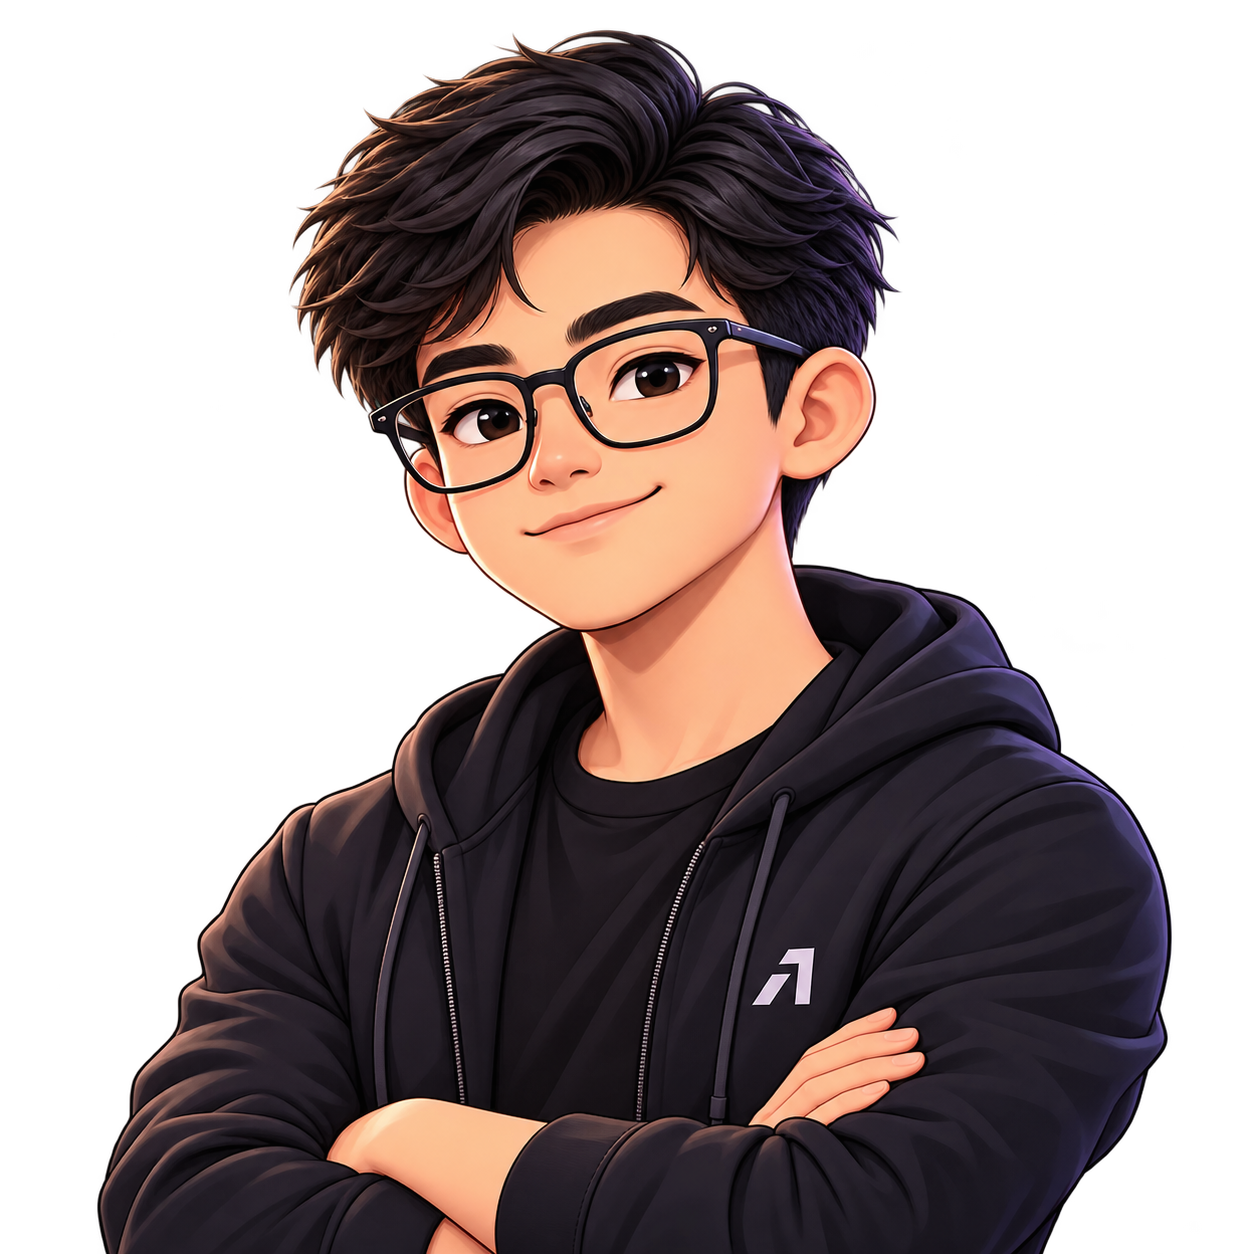
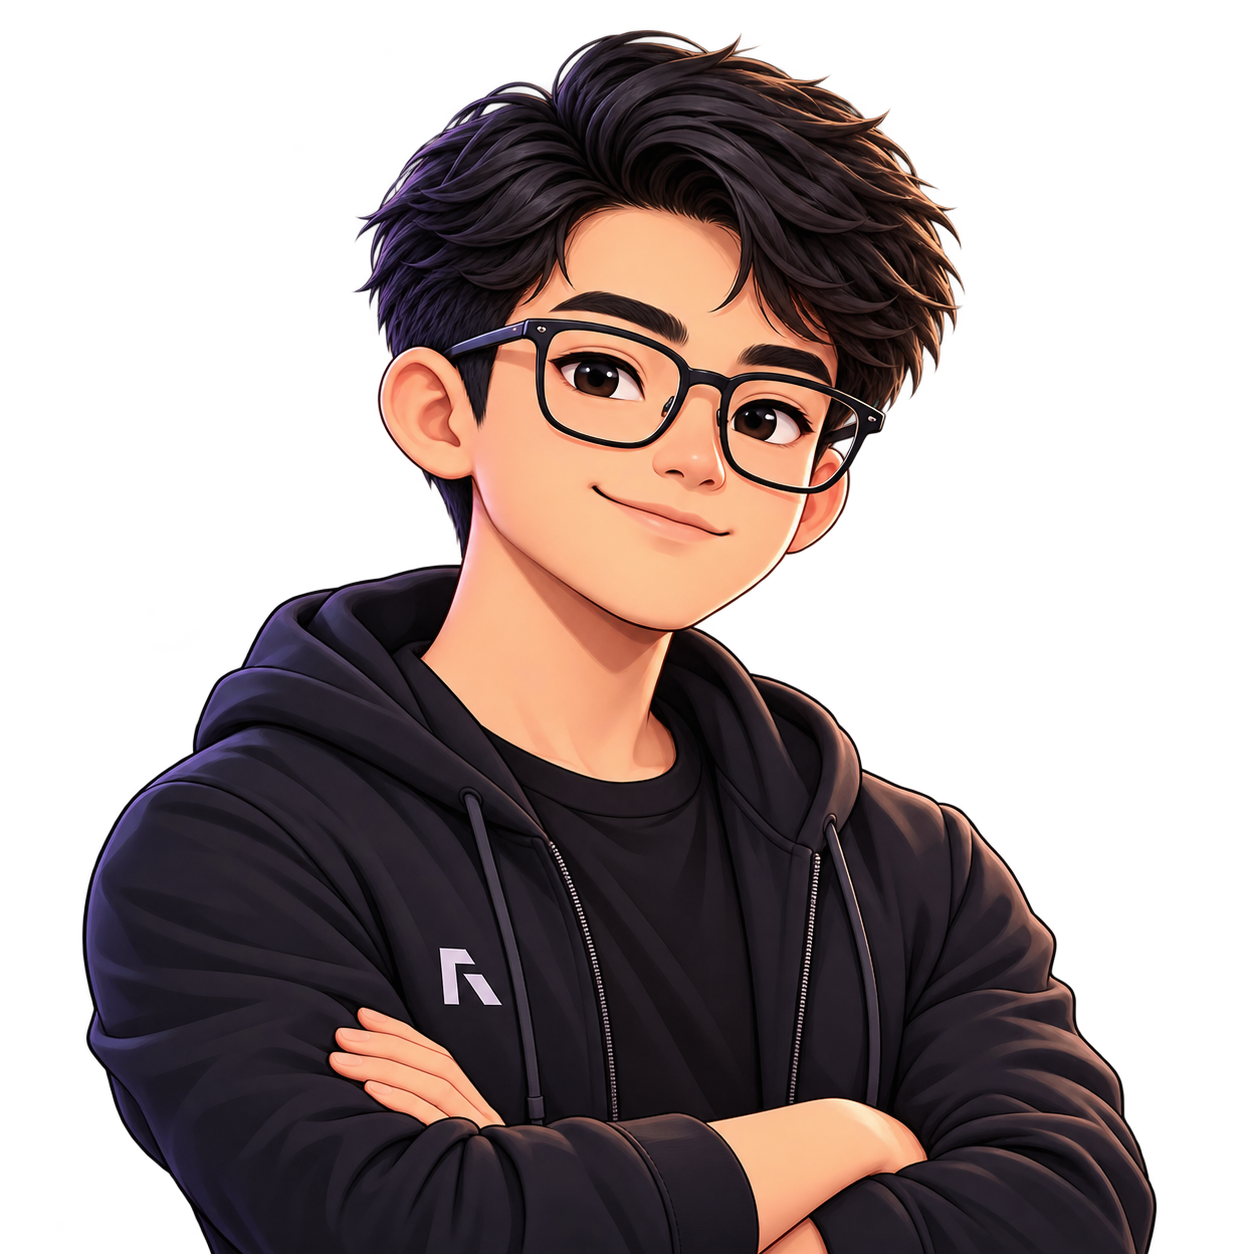
feat(navbar): replace mobile tab strip with hamburger menu (#12)

diff --git a/components/layout/navbar/MobileMenu.tsx b/components/layout/navbar/MobileMenu.tsx
@@ -1,0 +1,105 @@
+"use client";
+
+import { Menu, X } from "lucide-react";
+import { useEffect, useId, useRef, useState } from "react";
+import { navLinks } from "@/data/navigation";
+import { useActiveSection } from "@/hooks/useActiveSection";
+import { cn } from "@/lib/utils";
+
+const sectionIds = navLinks.map((link) => link.id);
+
+export function MobileMenu() {
+  const [open, setOpen] = useState(false);
+  const activeId = useActiveSection(sectionIds);
+  const panelId = useId();
+  const containerRef = useRef<HTMLDivElement>(null);
+  const buttonRef = useRef<HTMLButtonElement>(null);
+
+  useEffect(() => {
+    if (!open) return;
+
+    const desktop = window.matchMedia("(min-width: 64rem)");
+
+    function handleKeyDown(event: KeyboardEvent) {
+      if (event.key === "Escape") {
+        setOpen(false);
+        buttonRef.current?.focus();
+      }
+    }
+
+    function handlePointerDown(event: PointerEvent) {
+      if (!containerRef.current?.contains(event.target as Node)) setOpen(false);
+    }
+
+    function handleBreakpoint(event: MediaQueryListEvent) {
+      if (event.matches) setOpen(false);
+    }
+
+    document.addEventListener("keydown", handleKeyDown);
+    document.addEventListener("pointerdown", handlePointerDown);
+    desktop.addEventListener("change", handleBreakpoint);
+
+    return () => {
+      document.removeEventListener("keydown", handleKeyDown);
+      document.removeEventListener("pointerdown", handlePointerDown);
+      desktop.removeEventListener("change", handleBreakpoint);
+    };
+  }, [open]);
+
+  return (
+    <div ref={containerRef} className="lg:hidden">
+      <button
+        ref={buttonRef}
+        type="button"
+        aria-label="Menu"
+        aria-expanded={open}
+        aria-controls={panelId}
+        onClick={() => setOpen((current) => !current)}
+        className="flex size-9 cursor-pointer items-center justify-center rounded-lg border border-line-strong bg-surface text-foreground transition-colors duration-200 hover:border-green hover:text-green focus-visible:outline-2 focus-visible:outline-offset-2 focus-visible:outline-green"
+      >
+        {open ? (
+          <X className="size-4" aria-hidden />
+        ) : (
+          <Menu className="size-4" aria-hidden />
+        )}
+      </button>
+
+      <div
+        id={panelId}
+        hidden={!open}
+        className="absolute inset-x-0 top-full border-b border-line bg-background/95 shadow-glass motion-safe:animate-menu-in"
+      >
+        <ul className="mx-auto max-w-4xl px-6 py-3">
+          {navLinks.map(({ id, label }) => {
+            const isActive = activeId === id;
+
+            return (
+              <li key={id}>
+                <a
+                  href={`#${id}`}
+                  onClick={() => setOpen(false)}
+                  aria-current={isActive ? "location" : undefined}
+                  className={cn(
+                    "flex items-center gap-3 rounded-lg px-3 py-2.5 font-mono text-sm transition-colors duration-200",
+                    "hover:bg-surface hover:text-green",
+                    "focus-visible:outline-2 focus-visible:-outline-offset-2 focus-visible:outline-green",
+                    isActive ? "bg-surface text-green" : "text-muted",
+                  )}
+                >
+                  <span
+                    aria-hidden="true"
+                    className={cn(
+                      "size-1.5 rounded-full",
+                      isActive ? "bg-green" : "bg-line-strong",
+                    )}
+                  />
+                  {label}
+                </a>
+              </li>
+            );
+          })}
+        </ul>
+      </div>
+    </div>
+  );
+}

diff --git a/components/layout/navbar/Navbar.tsx b/components/layout/navbar/Navbar.tsx
@@ -1,5 +1,6 @@
 import { ThemeToggle } from "@/components/ui/ThemeToggle";
 import { Brand } from "./Brand";
+import { MobileMenu } from "./MobileMenu";
 import { NavTabs } from "./NavTabs";
 
 export function Navbar() {
@@ -7,17 +8,14 @@ export function Navbar() {
     <header className="sticky top-0 z-50 border-b border-line bg-card backdrop-blur-xl">
       <nav
         aria-label="Main"
-        className="mx-auto flex max-w-4xl flex-wrap items-center justify-between px-6 lg:h-[54px] lg:flex-nowrap"
+        className="mx-auto flex h-[54px] max-w-4xl items-center justify-between px-6"
       >
-        <div className="order-1 flex h-12 items-center lg:h-auto">
-          <Brand />
-        </div>
-
-        <div className="order-2 lg:order-3">
+        <Brand />
+        <NavTabs className="hidden self-stretch lg:flex" />
+        <div className="flex items-center gap-3">
           <ThemeToggle />
+          <MobileMenu />
         </div>
-
-        <NavTabs className="order-3 h-10 w-full border-t border-line lg:order-2 lg:h-auto lg:w-auto lg:self-stretch lg:border-t-0" />
       </nav>
     </header>
   );

diff --git a/components/layout/navbar/NavTabs.tsx b/components/layout/navbar/NavTabs.tsx
@@ -10,7 +10,7 @@ export function NavTabs({ className }: { className?: string }) {
   const activeId = useActiveSection(sectionIds);
 
   return (
-    <ul className={cn("no-scrollbar flex overflow-x-auto", className)}>
+    <ul className={cn("flex", className)}>
       {navLinks.map(({ id, label }) => {
         const isActive = activeId === id;
 

diff --git a/components/ui/SectionCard.tsx b/components/ui/SectionCard.tsx
@@ -23,7 +23,7 @@ export function SectionCard({
     <section
       id={id}
       aria-labelledby={titleId}
-      className="relative z-10 mx-auto max-w-4xl scroll-mt-28 lg:scroll-mt-20 px-6 pb-16"
+      className="relative z-10 mx-auto max-w-4xl scroll-mt-20 px-6 pb-16"
     >
       <GlassCard>
         <WindowBar filename={filename} />

diff --git a/app/globals.css b/app/globals.css
@@ -88,6 +88,19 @@
       transform: translateY(0);
     }
   }
+
+  --animate-menu-in: menu-in 0.18s ease-out;
+
+  @keyframes menu-in {
+    from {
+      opacity: 0;
+      transform: translateY(-6px);
+    }
+    to {
+      opacity: 1;
+      transform: translateY(0);
+    }
+  }
 }
 
 /* ---------- Base styles ---------- */
